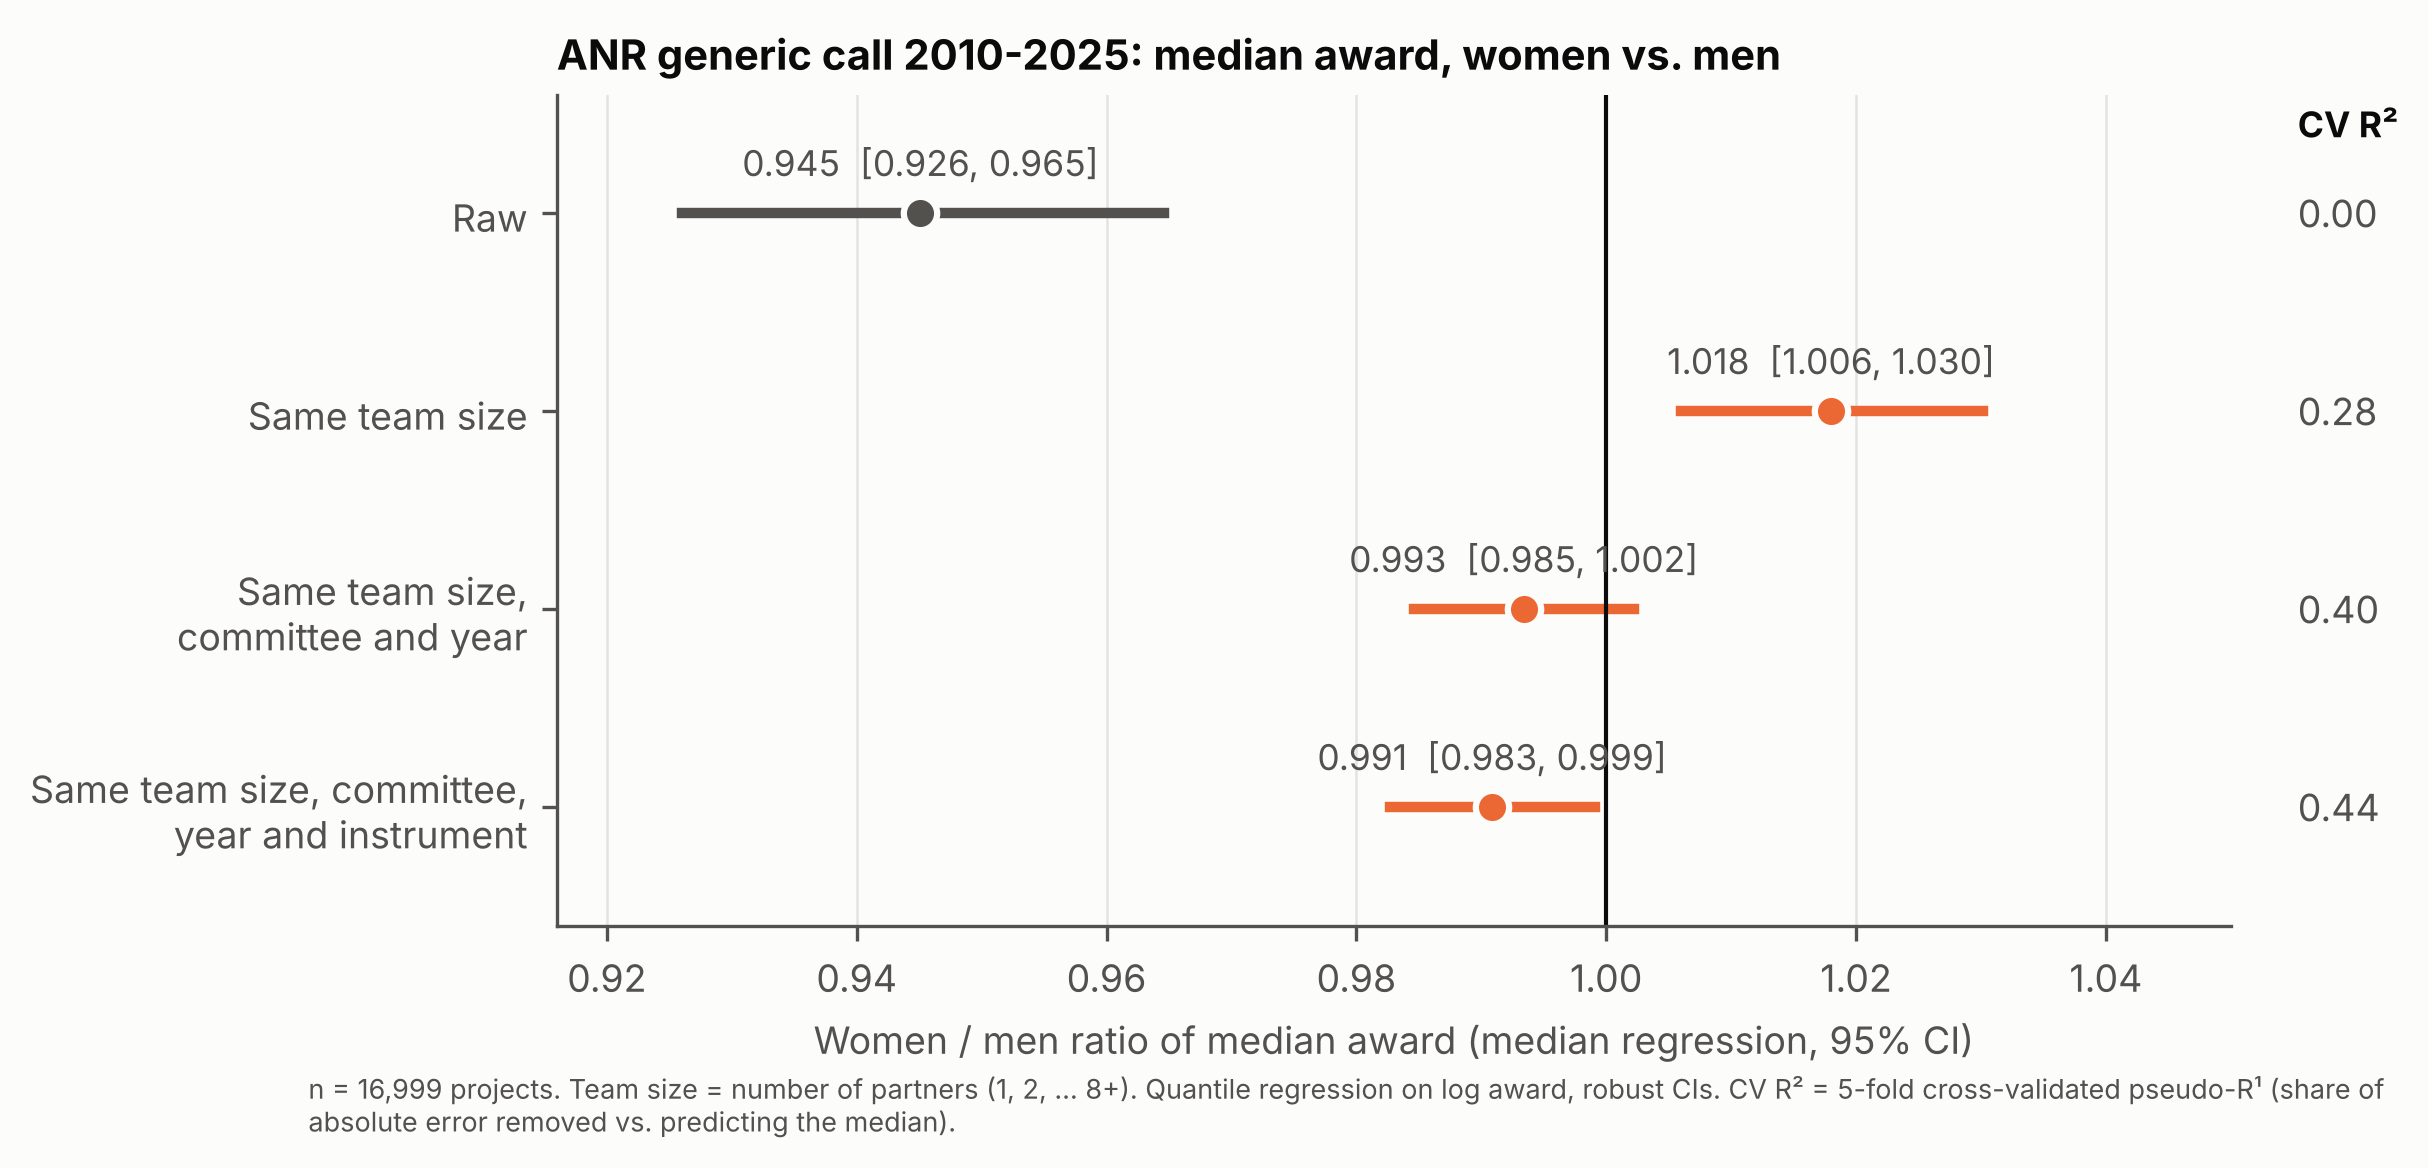
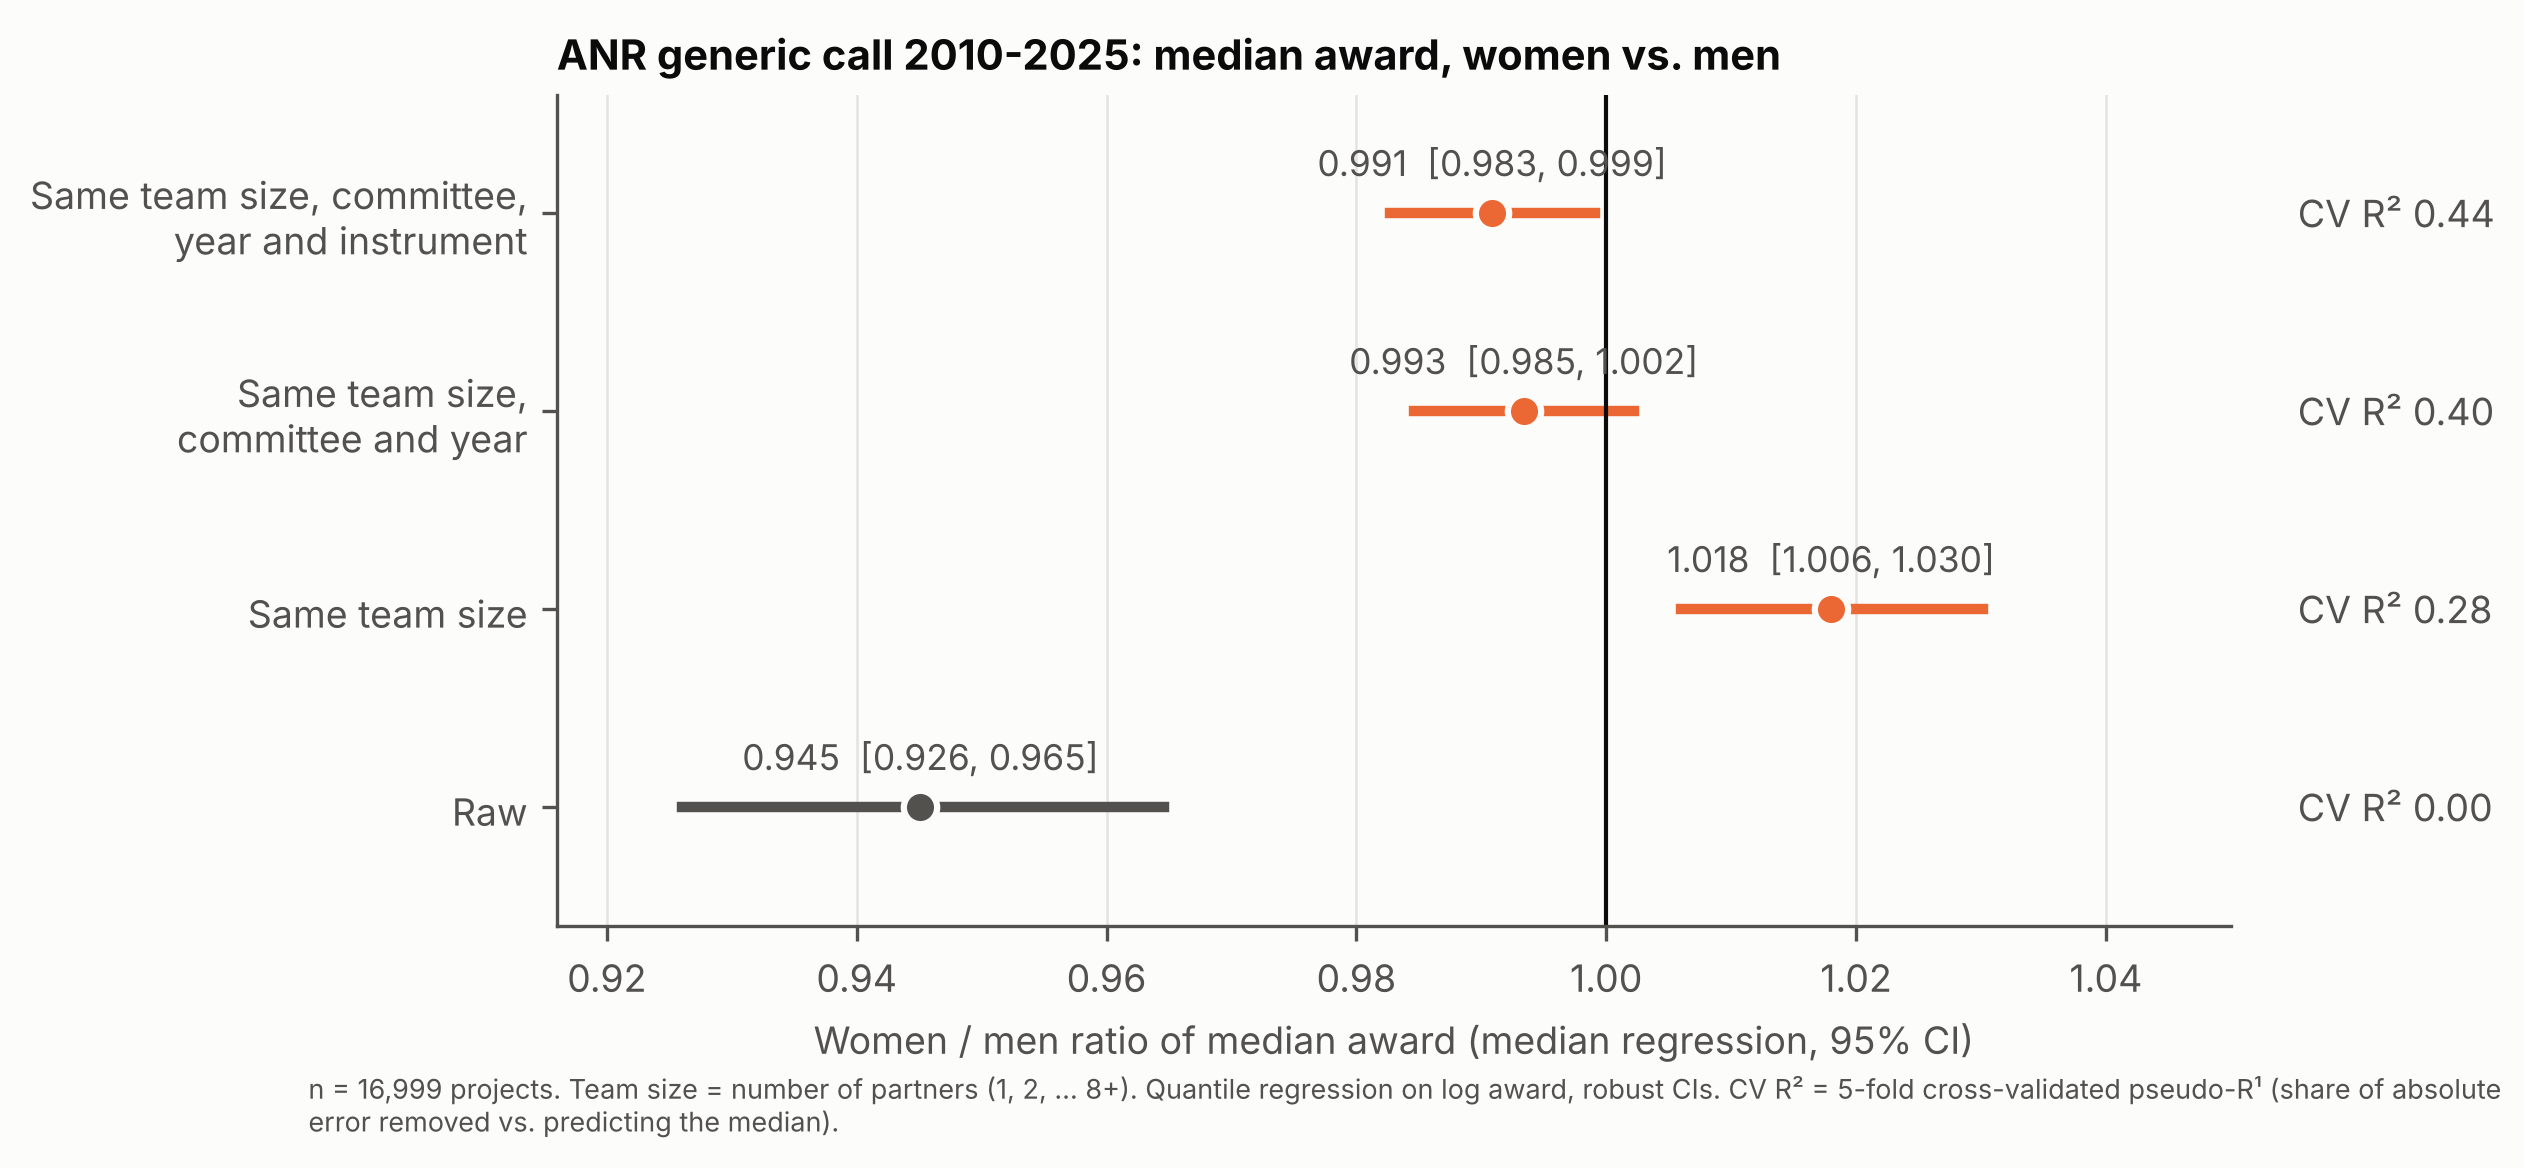
Invert median-award figure (raw at bottom) for slide build-up
Claude-Session: https://claude.ai/code/session_01PAzkXMGCXxjV7L2RQiVK7i

diff --git a/anr-gender/analysis.py b/anr-gender/analysis.py
@@ -576,7 +576,7 @@ def raw_vs_team_size(a, fit_table):
     flat.to_csv(TAB / "2b_raw_vs_team_size.csv", index=False)
 
     fig, ax = plt.subplots(figsize=(7.2, 3.6))
-    y = list(range(len(t)))[::-1]
+    y = list(range(len(t)))  # raw at the bottom, each added control one row up (crop from the top to build up)
     for yi, (_, r) in zip(y, t.iterrows()):
         col = INK2 if r.model == "Raw" else C_F
         ax.plot([r.ratio_lo, r.ratio_hi], [yi, yi], color=col, lw=2.5)
@@ -591,9 +591,8 @@ def raw_vs_team_size(a, fit_table):
     ax.set_xlim(lo, hi)
     # CV R2 column to the right of the plot
     xr = hi + (hi - lo) * 0.04
-    ax.text(xr, len(t) - 0.55, "CV R²", fontsize=8.5, fontweight="bold", color=INK, va="center")
-    for yi, (_, r) in zip(y, t.iterrows()):
-        ax.text(xr, yi, f"{r.cv_pseudo_R1:.2f}", fontsize=9, color=INK2, va="center")
+    for yi, (_, r) in zip(y, t.iterrows()):  # label on every row so any crop keeps it
+        ax.text(xr, yi, f"CV R² {r.cv_pseudo_R1:.2f}", fontsize=9, color=INK2, va="center")
     ax.set_xlabel("Women / men ratio of median award (median regression, 95% CI)")
     ax.set_title("ANR generic call 2010-2025: median award, women vs. men", loc="left")
     ax.grid(axis="y", visible=False)
